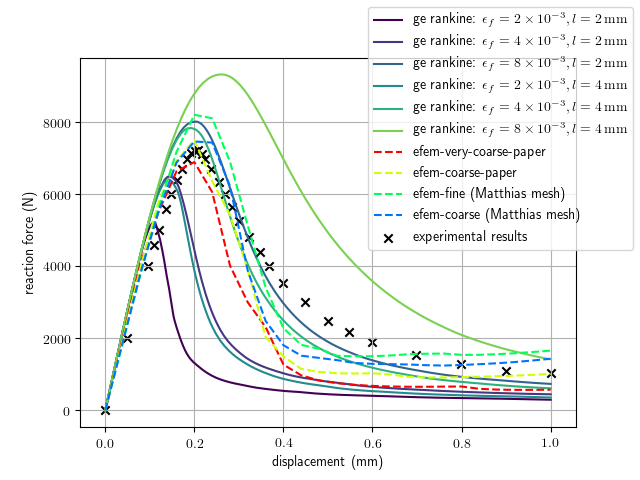
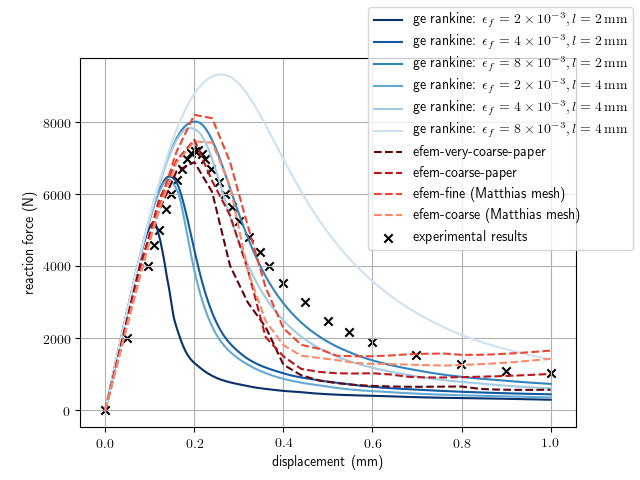
Updated figure colors

diff --git a/plot_load_displacement_curves_comparison.py b/plot_load_displacement_curves_comparison.py
@@ -31,7 +31,7 @@ files_gradient_enhanced_rankine = {'./gradient_enhanced_rankine/rankine_epsf=2e-
                                    './gradient_enhanced_rankine/rankine_epsf=2e-3_ldam=4.csv' : r'ge rankine: $\epsilon_f=\num{2e-3}, l=\SI{4}{mm}$',
                                    './gradient_enhanced_rankine/rankine_epsf=4e-3_ldam=4.csv' : r'ge rankine: $\epsilon_f=\num{4e-3}, l=\SI{4}{mm}$',
                                    './gradient_enhanced_rankine/rankine_epsf=8e-3_ldam=4.csv' : r'ge rankine: $\epsilon_f=\num{8e-3}, l=\SI{4}{mm}$',}
-colors_rankine = plt.cm.viridis(np.linspace(0.0, .8, 6 ))
+colors_rankine = plt.cm.Blues_r(np.linspace(0.0, .8, 6 ))
 
 for color , (f, lab) in zip (colors_rankine, files_gradient_enhanced_rankine.items() ):
     
@@ -50,7 +50,7 @@ files_efem = {'./embedded_fem/efem_very_coarse_paper.csv' : r'efem-very-coarse-p
 	      './embedded_fem/efem_fine.csv' : r'efem-fine (Matthias mesh)',
 	      './embedded_fem/efem_coarse.csv' : r'efem-coarse (Matthias mesh)',}
 
-colors_efem = plt.cm.hsv(np.linspace(0.0, 0.6, 4 ))
+colors_efem = plt.cm.Reds_r(np.linspace(0.0, 0.6, 4 ))
 
 for color , (f, lab) in zip(colors_efem, files_efem.items()):
     
